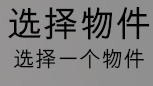
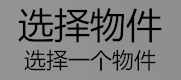
Add debug option and broken lure changing, fix bug
- Add -D option for debugging

- Add experimental broken lure changing feature

- Add settings of default command line arguments

- Fix plotting bug

- Retouch images of Chinese version

diff --git a/src/app.py b/src/app.py
@@ -7,6 +7,8 @@ import threading
 import os
 import smtplib
 import logging
+import sys
+import shlex
 from pathlib import Path
 from argparse import ArgumentParser
 from configparser import ConfigParser
@@ -38,11 +40,8 @@ class App():
             if self.config.has_option(section, 'fishing_strategy'):
                 self.profile_names.append(section)
 
-    def get_args(self) -> ArgumentParser:
+    def get_args(self) -> None:
         """Configure argparser and parse the args.
-
-        :return: parsed command line arguments
-        :rtype: ArgumentParser
         """
         parser = ArgumentParser(
                             prog='app.py', 
@@ -72,6 +71,8 @@ class App():
                             help='Lift the tackle constantly while retrieving to speed up retrieval')
         parser.add_argument('-g', '--gear-ratio-switching', action='store_true',
                             help='When the retrieval timeout, switch the gear ratio automatically')
+        parser.add_argument('-D', '--DEBUG', action='store_true',
+                            help='This is only for testing and should not be used')
         
         spool_group = parser.add_mutually_exclusive_group()
         spool_group.add_argument('-d', '--default-spool-icon', action='store_true',
@@ -87,19 +88,20 @@ class App():
                             help='the id of profile you want to use')
         parser.add_argument('-t', '--boat-ticket-duration', type=int,
                             help='Enable boat ticket auto renewal, use 1, 2, 3, or 5 to speicfy the duration of the ticket')
-        self.args = parser.parse_args()
+        argv = shlex.split(self.config['game'].get('default_arguments', fallback="")) + sys.argv[1:]
+        self.args = parser.parse_args(argv)
 
     def validate_args(self) -> None:
         """Validate args: fishes_in_keepnet and pid.
         """
         if not self._is_fish_count_valid(self.args.fishes_in_keepnet):
             logger.error('Invalid number of fishes in keepnet')
-            exit()
+            sys.exit()
             
         # pid has no fallback value, check if it's None
         if self.args.pid and not self._is_pid_valid(str(self.args.pid)):
             logger.error('Invalid profile id')
-            exit()
+            sys.exit()
         self.pid = self.args.pid # unify pid location in case ask_for_pid() is called afterwards
 
         if self.args.boat_ticket_duration is not None:
@@ -108,7 +110,7 @@ class App():
                 self.args.boat_ticket_duration != 3 and
                 self.args.boat_ticket_duration != 5):
                 logger.error('Invalid ticket duration')
-                exit()
+                sys.exit()
 
 
     def validate_email(self) -> None:
@@ -124,7 +126,7 @@ class App():
         if smtp_server_name is None:
             logger.error('Failed to load environment variable "SMTP_SERVER" from .env')
         if email is None or password is None or smtp_server_name is None:
-            exit()
+            sys.exit()
 
         try:
             with smtplib.SMTP_SSL(smtp_server_name, 465) as smtp_server:
@@ -134,10 +136,10 @@ class App():
             print('Please configure your username and password in .env file')
             print('If you are using Gmail, refer to https://support.google.com/accounts/answer/185833', 
                 '\nto get more information about app password authentication')
-            exit()
+            sys.exit()
         except gaierror:
             logger.error("Invalid SMTP Server, try 'smtp.gmail.com', 'smtp.qq.com' or other SMTP servers")
-            exit()
+            sys.exit()
 
     
     def _is_fish_count_valid(self, fish_count: int) -> bool:
@@ -175,7 +177,7 @@ class App():
         pid = input("Enter profile id or press q to exit: ")
         while not self._is_pid_valid(pid):
             if pid.strip() == 'q':
-                exit()
+                sys.exit()
             pid = input('Invalid profile id, please try again or press q to quit: ')
         self.pid = int(pid)
 
@@ -185,7 +187,7 @@ class App():
         if self.pid == 0:
             os.startfile(self.config_path)
             print('Save the file before restarting the script to apply changes')
-            exit()
+            sys.exit()
 
         self.profile_name = self.profile_names[self.pid]
         self.player = Player(self.args, self.config, self.profile_name)
@@ -264,20 +266,33 @@ class App():
                 real_attribute = getattr(self.player, name.lower().replace(' ', '_') + '_enabled')
                 table.add_row([name, 'enabled' if real_attribute else 'disabled'])
 
+    def run_experimental_func(self):
+        logger.info('Debugging')
+        # self.player.change_broken_lure()
+
+# for debugging
+# from monitor import *
+# from pyautogui import *
+# from time import sleep
+
 if __name__ == '__main__':
     app = App()
     app.get_args()
+
     app.validate_args()
     if app.args.email:
         app.validate_email()
 
-    if app.args.pid is None:
+    if app.args.DEBUG:
+        WindowController().activate_game_window()
+        app.run_experimental_func()
+        sys.exit()
+    elif app.args.pid is None:
         app.show_available_profiles()
         app.ask_for_pid()
     app.gen_player_from_settings()
     app.show_user_settings()
-    
-    
+
     ask_for_confirmation('Do you want to continue with the settings above')
     WindowController().activate_game_window()
     app.player.start_fishing()

diff --git a/src/player.py b/src/player.py
@@ -752,10 +752,10 @@ class Player():
         ax[0].set_ylabel('Fish')
         
         last_rhour = cast_rhour_list[-1] # hour: 0, 1, 2, 3, 4, "5"
-        fish_per_rhour = [0] * last_rhour + 1 # idx: #(0, 1, 2, 3, 4, 5) = 6
+        fish_per_rhour = [0] * (last_rhour + 1) # idx: #(0, 1, 2, 3, 4, 5) = 6
         for hour in cast_rhour_list:
             fish_per_rhour[hour] += 1
-        ax[0].plot(range(last_rhour + 2), fish_per_rhour) # range need + 1
+        ax[0].plot(range(last_rhour + 1), fish_per_rhour)
         ax[0].set_title('Fish Caughted per Real Hour')
         ax[0].set_xticks(range(last_rhour + 2))
         ax[0].set_xlabel('Hour (real running time)')
@@ -788,6 +788,78 @@ class Player():
     def shutdown_computer(self):
         os.system('shutdown /s /t 5')
         exit()
+
+
+    def change_broken_lure(self):
+        from monitor import get_item_info_position, get_broken_item_position, get_favorite_item_positions
+        from time import sleep
+
+        pag.press('v')
+        sleep(0.25)
+        pag.moveTo(get_item_info_position())
+        for _ in range(5):
+            sleep(1)
+            # loc = get_item_info_position()
+            # x, y = self.get_box_center(loc)
+            # pag.moveTo(x + 10, y)
+            # pag.drag(xOffset=0, yOffset=125, duration=0.5, button='left')
+            pag.drag(xOffset=0, yOffset=125, duration=0.5, button='left')
+            replaced = False
+            while True:
+                sleep(2) # wait for wear to update
+                broken_item_position = get_broken_item_position()
+                if broken_item_position is None:
+                    logger.info('Broken lure not found')
+                    break # continue scrolling
+                
+                # click item to open selection menu
+                logger.info('Broken lure found')
+                pag.moveTo(broken_item_position)
+                sleep(0.25)
+                pag.click()
+                sleep(0.25)
+
+                # get all positions
+                favorite_item_positions = get_favorite_item_positions()
+                while True:
+                    favorite_item_position = next(favorite_item_positions, None)
+                    if favorite_item_position is None:
+                        msg = 'Lure for replacement not found'
+                        logger.warning(msg)
+                        pag.press('esc')
+                        sleep(0.25)
+                        pag.press('esc')    
+                        sleep(0.25)
+                        pag.press('esc')    
+                        exit()
+                        # self.general_quit(msg)
+                    x, y = self.get_box_center(favorite_item_position)
+                    if pag.pixel(x - 75, y + 190) == (178, 59, 30): # magic value
+                        logger.info('Skip a broken lure for replacement')
+                        continue
+                    logger.info('The broken lure has been replaced')
+                    pag.moveTo(x - 75, y + 200)
+                    pag.click(clicks=2, interval=0.1)
+                    replaced = True
+                    break
+                if not replaced:
+                    msg = 'Lure for replacement not found'
+                    logger.warning(msg)
+                    pag.press('esc')
+                    sleep(0.25)
+                    pag.press('esc')   
+                    sleep(0.25)
+                    pag.press('esc')    
+                    exit()
+                    # self.general_quit(msg)
+            if replaced:
+                pag.moveTo(get_item_info_position())
+        pag.press('v')
+
+    import pyscreeze
+    def get_box_center(self, box: pyscreeze.Box) -> tuple[int, int]:
+        # convert np.int64 to int
+        return int(box.left + box.width // 2), int(box.top + box.height // 2) 
 
 # head up backup
 # win32api.mouse_event(win32con.MOUSEEVENTF_MOVE, int(0), int(-200), 0, 0)

diff --git a/src/monitor.py b/src/monitor.py
@@ -7,7 +7,7 @@ Todo:
 """
 from configparser import ConfigParser
 
-from pyautogui import locateOnScreen, locateCenterOnScreen, pixel
+from pyautogui import locateOnScreen, locateCenterOnScreen, pixel, locateAllOnScreen
 
 config = ConfigParser()
 config.read('../config.ini')
@@ -110,6 +110,33 @@ def is_ticket_expired():
 
 def get_boat_ticket_position(ticket_time=None): # todo
     return locateOnScreen(fr'{parent_dir}ticket_{ticket_time}.png', confidence=0.95)
+
+def get_item_info_position():
+    return locateOnScreen(fr'{parent_dir}item_info.png', confidence=0.97)
+
+def get_broken_item_position(): #todo
+    return locateOnScreen(fr'{parent_dir}broken.png', confidence=0.98)
+
+def get_favorite_item_positions():
+    return locateAllOnScreen(fr'{parent_dir}favorite.png', confidence=0.95)
+
+def is_fish_mackerel():
+    return locateOnScreen(fr'{parent_dir}mackerel.png', confidence=0.9)
+
+def is_fish_saithe():
+    return locateOnScreen(fr'{parent_dir}saithe.png', confidence=0.9)
+
+def is_fish_herring():
+    return locateOnScreen(fr'{parent_dir}herring.png', confidence=0.9)
+
+def is_fish_squid():
+    return locateOnScreen(fr'{parent_dir}squid.png', confidence=0.9)
+
+def is_fish_scallop():
+    return locateOnScreen(fr'{parent_dir}scallop.png', confidence=0.9)
+
+def is_fish_mussel():
+    return locateOnScreen(fr'{parent_dir}mussel.png', confidence=0.9)
 
 # ---------------------------------------------------------------------------- #
 #                         player status bar analyzation                        #

diff --git a/tests/pixel.py b/tests/pixel.py
@@ -1,7 +1,10 @@
 from pyautogui import *
+from time import sleep
 
 print(position())
 while True:
+    sleep(2)
     p = position()
+    print(p)
     x, y = p.x, p.y
-    print(pixel(x, y))
+    # print(pixel(x, y))
